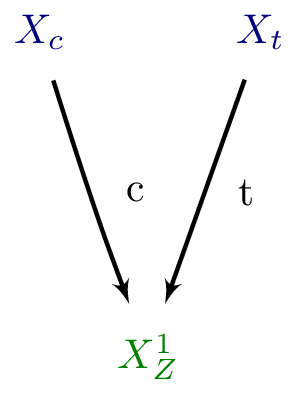
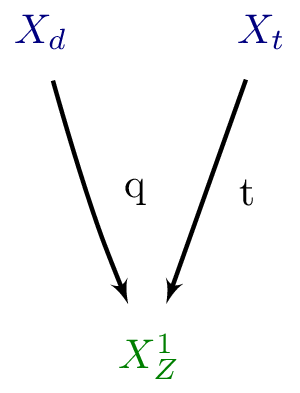
automated update by plotHiscore.py

diff --git a/protomodels/latest/index.html b/protomodels/latest/index.html
@@ -1,30 +1,31 @@
 <html>
 <body>
 <center>
-<table><td><h1>Current best protomodel: K=6.92</h1><td><img height=60px src=https://smodels.github.io/pics/banner.png></table>
+<table><td><h1>Current best protomodel: K=7.07</h1><td><img height=60px src=https://smodels.github.io/pics/banner.png></table>
 </center>
-<b><a href=./hiscore.slha>ProtoModel</a> <a href=./pmodel.py>(dict)</a> produced with <a href=https://smodels.github.io/docs/Validation124>database v1.2.4</a>, combination strategy <a href=./matrix_aggressive.png>aggressive</a> in walker 19 step 76.</b> K plots for: <a href=./M1000022.png?7998588>X<sub>Z</sub><sup>1</sup></a>, <a href=./M1000006.png?7998588>X<sub>t</sub></a>, <a href=./M1000004.png?7998588>X<sub>c</sub></a>. HPD plots for: <a href=./llhd1000006.png?7998588>X<sub>t</sub></a>, <a href=./llhd1000004.png?7998588>X<sub>c</sub></a>. SSM plots for: <a href=./ssm_-1000006_1000006.png?7998588>(x&#772;<sub>t</sub>,X<sub>t</sub>)</a><br>
+<b><a href=./hiscore.slha>ProtoModel</a> <a href=./pmodel.py>(dict)</a> produced with <a href=https://smodels.github.io/docs/Validation124>database v1.2.4</a>, combination strategy <a href=./matrix_aggressive.png>aggressive</a> in walker 33 step 304.</b> K plots for: <a href=./M1000022.png?7998632>X<sub>Z</sub><sup>1</sup></a>, <a href=./M1000001.png?7998632>X<sub>d</sub></a>, <a href=./M1000006.png?7998632>X<sub>t</sub></a>. HPD plots for: <a href=./llhd1000001.png?7998632>X<sub>d</sub></a>, <a href=./llhd1000006.png?7998632>X<sub>t</sub></a>. SSM plots for: <a href=./ssm_-1000006_1000006.png?7998632>(x&#772;<sub>t</sub>,X<sub>t</sub>)</a><br>
 <table width=80%>
 <tr><td>
-<br><b>22 predictions available. Highest r values are:</b><br><ul>
-<li><a href=http://cms-results.web.cern.ch/cms-results/public-results/publications/SUS-19-006/index.html>CMS-SUS-19-006</a>:T2 r=1.30, r<sub>exp</sub>=1.13<br>
-<li><a href=http://cms-results.web.cern.ch/cms-results/public-results/publications/SUS-16-033/index.html>CMS-SUS-16-033</a>:T2 r=1.13, r<sub>exp</sub>=0.83<br>
-<li><a href=http://cms-results.web.cern.ch/cms-results/public-results/publications/SUS-19-006/index.html>CMS-SUS-19-006</a>:T2tt r=1.00, r<sub>exp</sub>=1.01<br>
-<li><a href=http://cms-results.web.cern.ch/cms-results/public-results/publications/SUS-16-036/index.html>CMS-SUS-16-036</a>:T2 r=0.85, r<sub>exp</sub>=0.78<br>
-<li><a href=https://atlas.web.cern.ch/Atlas/GROUPS/PHYSICS/PAPERS/SUSY-2016-26/>ATLAS-SUSY-2016-26</a>:T2cc r=0.62, r<sub>exp</sub>=N/A<br>
+<br><b>30 predictions available. Highest r values are:</b><br><ul>
+<li><a href=http://cms-results.web.cern.ch/cms-results/public-results/publications/SUS-19-006/index.html>CMS-SUS-19-006</a>:T2tt r=1.30, r<sub>exp</sub>=0.78<br>
+<li><a href=http://cms-results.web.cern.ch/cms-results/public-results/publications/SUS-19-006/index.html>CMS-SUS-19-006</a>:T2 r=1.29, r<sub>exp</sub>=1.11<br>
+<li><a href=http://cms-results.web.cern.ch/cms-results/public-results/publications/SUS-16-033/index.html>CMS-SUS-16-033</a>:T2 r=0.98, r<sub>exp</sub>=0.77<br>
+<li><a href=http://cms-results.web.cern.ch/cms-results/public-results/publications/SUS-16-036/index.html>CMS-SUS-16-036</a>:T2 r=0.82, r<sub>exp</sub>=0.77<br>
+<li><a href=http://cms-results.web.cern.ch/cms-results/public-results/publications/SUS-16-049/index.html>CMS-SUS-16-049</a>:T2tt r=0.74, r<sub>exp</sub>=0.62<br>
 </ul>
 <td><br><b>K values without analyses: (contribution)</b><br>
 <ul>
-<li> <a href=http://cms-results.web.cern.ch/cms-results/public-results/publications/SUS-16-050/index.html>CMS-SUS-16-050</a>: 3.67 (14%)
-<li> <a href=https://twiki.cern.ch/twiki/bin/view/CMSPublic/PhysicsResultsSUS13012>CMS-SUS-13-012</a>: 3.67 (14%)
-<li> <a href=https://atlas.web.cern.ch/Atlas/GROUPS/PHYSICS/PAPERS/SUSY-2013-02/>ATLAS-SUSY-2013-02</a>: 3.59 (14%)
-<li> <a href=https://atlas.web.cern.ch/Atlas/GROUPS/PHYSICS/PAPERS/SUSY-2016-16/>ATLAS-SUSY-2016-16</a>: 1.20 (25%)
-<li> <a href=https://atlas.web.cern.ch/Atlas/GROUPS/PHYSICS/PAPERS/SUSY-2016-07/>ATLAS-SUSY-2016-07</a>: -0.79 (33%)
-<td><img width=600px src=./texdoc.png?1600998588>
-<br><font size=-1>Last updated: Fri Sep 25 03:49:48 2020</font>
+<li> <a href=http://cms-results.web.cern.ch/cms-results/public-results/publications/SUS-16-050/index.html>CMS-SUS-16-050</a>: 3.47 (13%)
+<li> <a href=https://twiki.cern.ch/twiki/bin/view/CMSPublic/PhysicsResultsSUS12028>CMS-SUS-12-028</a>: 3.47 (13%)
+<li> <a href=https://atlas.web.cern.ch/Atlas/GROUPS/PHYSICS/PAPERS/SUSY-2013-02/>ATLAS-SUSY-2013-02</a>: 3.42 (13%)
+<li> <a href=https://atlas.web.cern.ch/Atlas/GROUPS/PHYSICS/PAPERS/SUSY-2013-15/>ATLAS-SUSY-2013-15</a>: 3.04 (14%)
+<li> <a href=https://atlas.web.cern.ch/Atlas/GROUPS/PHYSICS/PAPERS/SUSY-2016-16/>ATLAS-SUSY-2016-16</a>: 1.64 (19%)
+<li> <a href=https://atlas.web.cern.ch/Atlas/GROUPS/PHYSICS/PAPERS/SUSY-2016-07/>ATLAS-SUSY-2016-07</a>: -1.03 (29%)
+<td><img width=600px src=./texdoc.png?1600998632>
+<br><font size=-1>Last updated: Fri Sep 25 03:50:32 2020</font>
 </table><table style="width:80%">
-<td width=45%><img height=580px src=./ruler.png?1600998588><td width=55%><img height=380px src=./decays.png?1600998588>
-<font size=-3><iframe type="text/html" height="220px" width="100%s" frameborder="0" src="./rawnumbers.html?1600998588"></iframe></font>
+<td width=45%><img height=580px src=./ruler.png?1600998632><td width=55%><img height=380px src=./decays.png?1600998632>
+<font size=-3><iframe type="text/html" height="220px" width="100%s" frameborder="0" src="./rawnumbers.html?1600998632"></iframe></font>
 </table>
 </body>
 </html>

diff --git a/protomodels/latest/rawnumbers.html b/protomodels/latest/rawnumbers.html
@@ -1,9 +1,10 @@
 <table>
 <tr><th>Analysis Name</th><th>Type</th><th>Dataset</th><th>Topos</th><th>Observed</th><th>Expected</th><th>Approx &sigma;</th><th>Particles</th>
 </tr>
-<tr><td><a href=https://atlas.web.cern.ch/Atlas/GROUPS/PHYSICS/PAPERS/SUSY-2013-02/>ATLAS-SUSY-2013-02</a></td><td>em</td> <td>SR6jtp</td><td>T2</td><td>6</td><td>4.9 +/- 1.6</td><td style="text-align:right">0.4 &sigma;</td><td style="text-align:right">X<sub>c</sub></td></tr>
-<tr><td><a href=https://atlas.web.cern.ch/Atlas/GROUPS/PHYSICS/PAPERS/SUSY-2016-07/>ATLAS-SUSY-2016-07</a></td><td>em</td> <td>2j_Meff_1200</td><td>T2</td><td>611</td><td>526 +/- 31</td><td style="text-align:right">2.2 &sigma;</td><td style="text-align:right">X<sub>c</sub></td></tr>
-<tr><td><a href=https://atlas.web.cern.ch/Atlas/GROUPS/PHYSICS/PAPERS/SUSY-2016-16/>ATLAS-SUSY-2016-16</a></td><td>em</td> <td>tN_high</td><td>T2tt</td><td>8</td><td>3.8 +/- 1</td><td style="text-align:right">1.9 &sigma;</td><td style="text-align:right">X<sub>t</sub></td></tr>
-<tr><td><a href=https://twiki.cern.ch/twiki/bin/view/CMSPublic/PhysicsResultsSUS13012>CMS-SUS-13-012</a></td><td>ul</td> <td>-</td><td>T2</td><td> 21.2 fb </td><td> 12.3 fb</td><td style="text-align:right">1.4 &sigma;</td><td style="text-align:right">X<sub>c</sub></td></tr>
-<tr><td><a href=http://cms-results.web.cern.ch/cms-results/public-results/publications/SUS-16-050/index.html>CMS-SUS-16-050</a></td><td>ul</td> <td>-</td><td>T2tt</td><td> 4.4 fb </td><td> 2.4 fb</td><td style="text-align:right">1.6 &sigma;</td><td style="text-align:right">X<sub>t</sub></td></tr>
+<tr><td><a href=https://atlas.web.cern.ch/Atlas/GROUPS/PHYSICS/PAPERS/SUSY-2013-02/>ATLAS-SUSY-2013-02</a></td><td>em</td> <td>SR6jtp</td><td>T2</td><td>6</td><td>4.9 +/- 1.6</td><td style="text-align:right">0.4 &sigma;</td><td style="text-align:right">X<sub>d</sub></td></tr>
+<tr><td><a href=https://atlas.web.cern.ch/Atlas/GROUPS/PHYSICS/PAPERS/SUSY-2013-15/>ATLAS-SUSY-2013-15</a></td><td>em</td> <td>tNboost</td><td>T2tt</td><td>5</td><td>3.3 +/- 0.7</td><td style="text-align:right">0.9 &sigma;</td><td style="text-align:right">X<sub>t</sub></td></tr>
+<tr><td><a href=https://atlas.web.cern.ch/Atlas/GROUPS/PHYSICS/PAPERS/SUSY-2016-07/>ATLAS-SUSY-2016-07</a></td><td>em</td> <td>2j_Meff_1200</td><td>T2</td><td>611</td><td>526 +/- 31</td><td style="text-align:right">2.2 &sigma;</td><td style="text-align:right">X<sub>d</sub></td></tr>
+<tr><td><a href=https://atlas.web.cern.ch/Atlas/GROUPS/PHYSICS/PAPERS/SUSY-2016-16/>ATLAS-SUSY-2016-16</a></td><td>em</td> <td>tN_med</td><td>T2tt</td><td>50</td><td>36.3 +/- 6.6</td><td style="text-align:right">1.5 &sigma;</td><td style="text-align:right">X<sub>t</sub></td></tr>
+<tr><td><a href=https://twiki.cern.ch/twiki/bin/view/CMSPublic/PhysicsResultsSUS12028>CMS-SUS-12-028</a></td><td>ul</td> <td>-</td><td>T2</td><td> 20.2 fb </td><td> 12.7 fb</td><td style="text-align:right">1.2 &sigma;</td><td style="text-align:right">X<sub>d</sub></td></tr>
+<tr><td><a href=http://cms-results.web.cern.ch/cms-results/public-results/publications/SUS-16-050/index.html>CMS-SUS-16-050</a></td><td>ul</td> <td>-</td><td>T2tt</td><td> 131.2 fb </td><td> 57.5 fb</td><td style="text-align:right">2.5 &sigma;</td><td style="text-align:right">X<sub>t</sub></td></tr>
 </table>

diff --git a/protomodels/latest/pmodel.py b/protomodels/latest/pmodel.py
@@ -1,1 +1,1 @@
-{'masses': {1000022: 136.357, 1000004: 788.384, 1000006: 1199.597}, 'ssmultipliers': {(1000022, 1000022): 0.014, (1000004, 1000004): 0.539, (-1000004, 1000004): 0.539, (-1000004, -1000004): 0.539, (1000004, 1000022): 0.539, (-1000004, 1000022): 0.539, (1000006, 1000006): 1.066, (-1000006, 1000006): 1.066, (-1000006, -1000006): 1.066, (1000006, 1000022): 1.066, (-1000006, 1000022): 1.066, (1000004, 1000006): 1.066, (-1000006, 1000004): 1.066, (-1000004, 1000006): 1.066, (-1000006, -1000004): 1.066}, 'decays': {1000022: {}, 1000004: {(1000022, 4): 1.0}, 1000006: {(1000022, 6): 1.0}}, 'timestamp': 'Fri Sep 25 03:49:40 2020', 'Z': 3.236, 'K': 6.923, 'step': 76, 'codever': '1.0', 'dbver': '1.2.4'}
+{'masses': {1000022: 502.214, 1000001: 1088.715, 1000006: 783.297}, 'ssmultipliers': {(1000022, 1000022): 0.866, (1000001, 1000001): 3.078, (-1000001, 1000001): 3.078, (-1000001, -1000001): 3.078, (1000001, 1000022): 3.078, (-1000001, 1000022): 3.078, (1000006, 1000006): 0.984, (-1000006, 1000006): 0.984, (-1000006, -1000006): 0.984, (1000006, 1000022): 0.984, (-1000006, 1000022): 0.984, (1000001, 1000006): 0.984, (-1000006, 1000001): 0.984, (-1000001, 1000006): 0.984, (-1000006, -1000001): 0.984}, 'decays': {1000022: {}, 1000001: {(1000022, 1): 1.0}, 1000006: {(1000022, 6): 1.0}}, 'timestamp': 'Fri Sep 25 03:50:22 2020', 'Z': 3.259, 'K': 7.07, 'step': 304, 'codever': '1.0', 'dbver': '1.2.4'}
